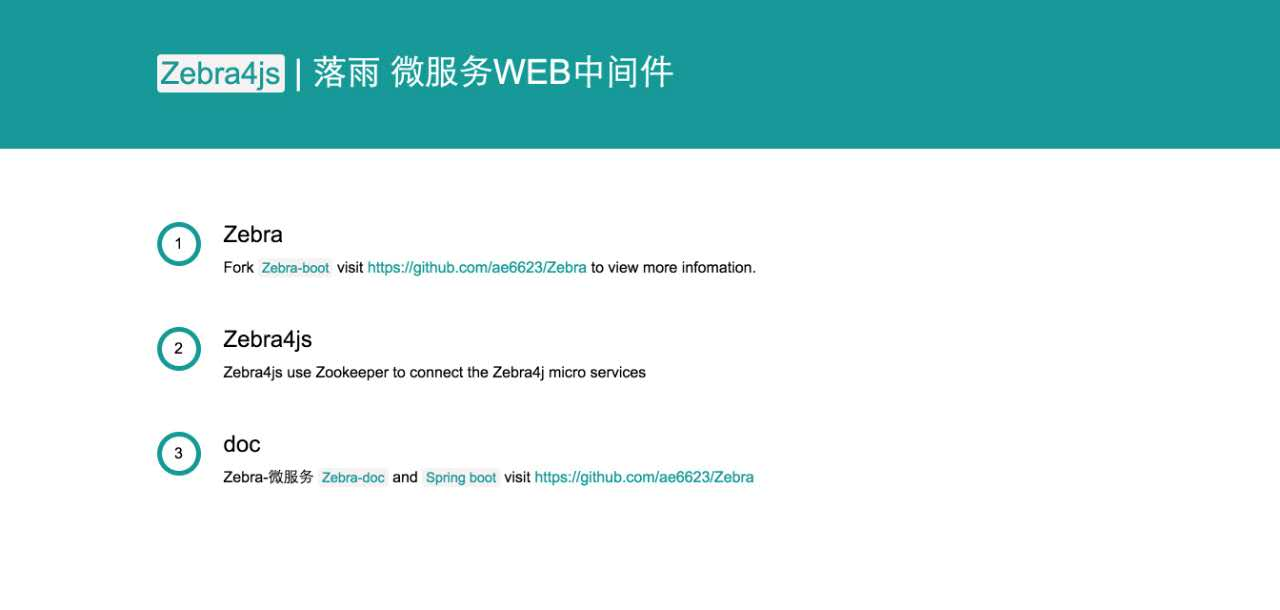
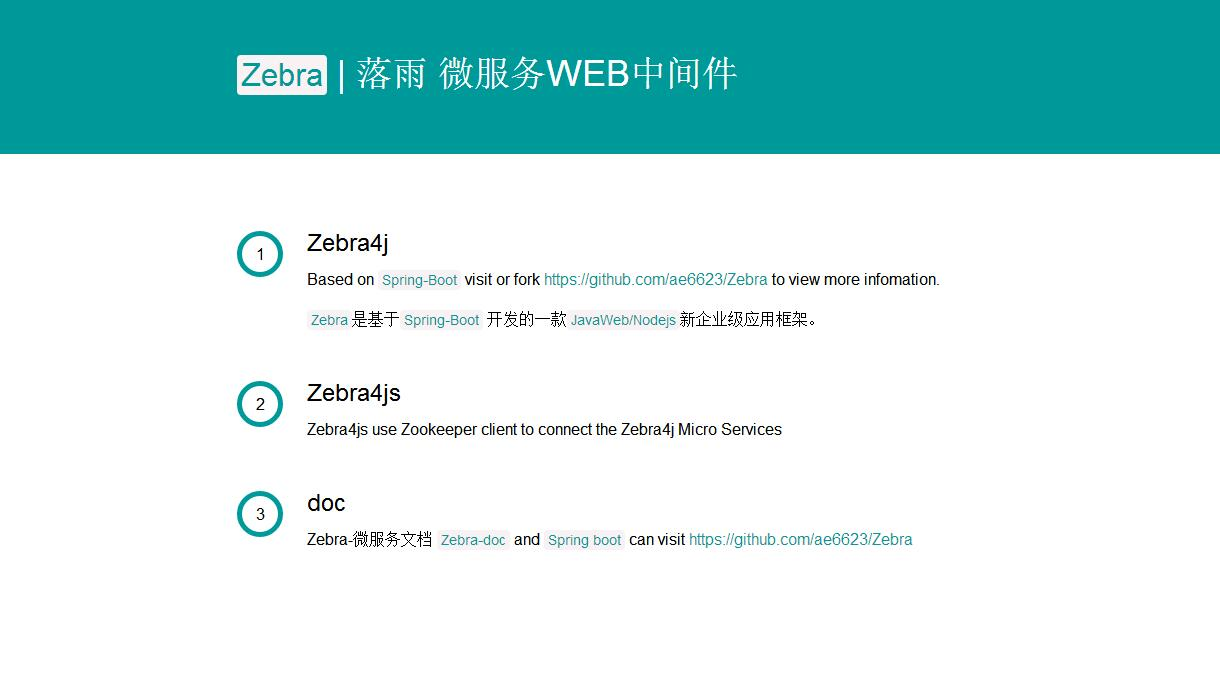
zebra

diff --git a/Zebra-index.html b/Zebra-index.html
@@ -29,19 +29,19 @@ code{  padding: 2px 4px;font-size: 90%;color: #009999;background-color: #f9f2f4;
     <div class="list">
       <div class="item">
         <div class="step">1</div>
-        <h2>Zebra</h2>
-        <p>Fork <code>Zebra-boot</code> visit <a href="https://github.com/ae6623/Zebra">https://github.com/ae6623/Zebra</a> to view more infomation.</p>
-
+        <h2>Zebra4j</h2>
+        <p>Based on <code>Spring-Boot</code> visit or fork <a href="https://github.com/ae6623/Zebra">https://github.com/ae6623/Zebra</a> to view more infomation.</p>
+        <p><code>Zebra</code>是基于<code>Spring-Boot</code> 开发的一款<code>JavaWeb/Nodejs</code>新企业级应用框架。</p>
       </div>
       <div class="item">
         <div class="step">2</div>
         <h2>Zebra4js</h2>
-        <p>Zebra4js use Zookeeper to connect the Zebra4j micro services</p>
+        <p>Zebra4js use Zookeeper client to connect the Zebra4j Micro Services</p>
       </div>
       <div class="item">
         <div class="step">3</div>
         <h2>doc</h2>
-        <p>Zebra-微服务 <code>Zebra-doc</code> and <code>Spring boot</code> visit <a href="https://github.com/ae6623/Zebra/blob/master/zebra4j/zebra-doc/zebra-boot/Zebra-%E5%BE%AE%E6%9C%8D%E5%8A%A1.md">https://github.com/ae6623/Zebra</a></p>
+        <p>Zebra-微服务文档 <code>Zebra-doc</code> and <code>Spring boot</code> can visit <a href="https://github.com/ae6623/Zebra/blob/master/zebra4j/zebra-doc/zebra-boot/Zebra-%E5%BE%AE%E6%9C%8D%E5%8A%A1.md">https://github.com/ae6623/Zebra</a></p>
       </div>
     </div>
   </div>

diff --git a/README.md b/README.md
@@ -32,4 +32,4 @@
 
 ## License 许可协议
 
-[MIT](https://github.com/ae6623/Zebra/blob/master/LICENSE)
+* [MIT](https://github.com/ae6623/Zebra/blob/master/LICENSE)
